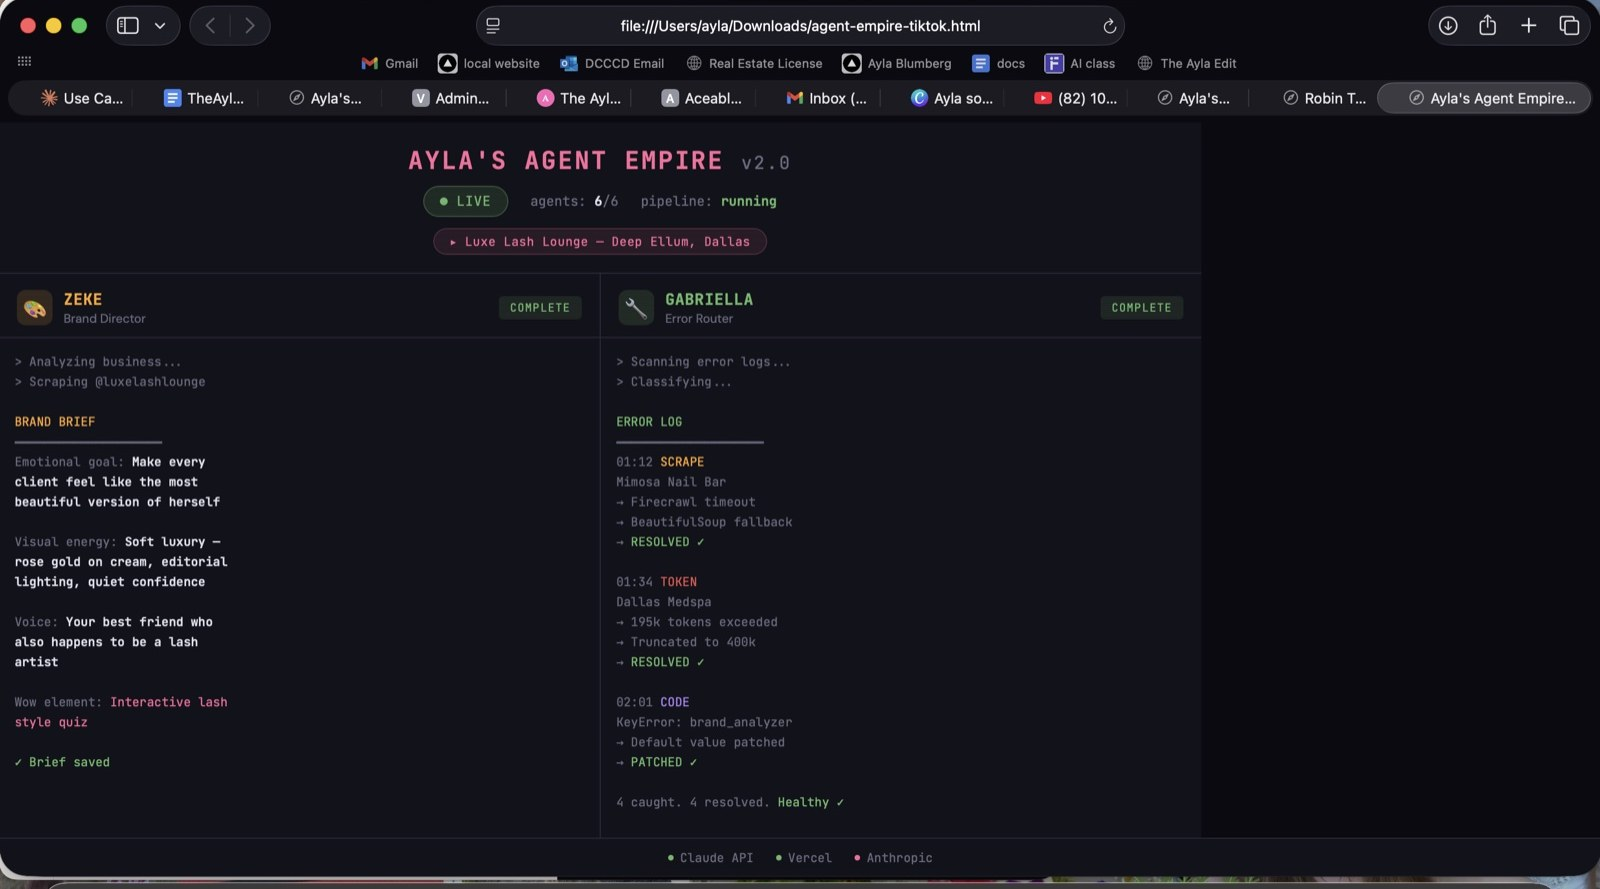
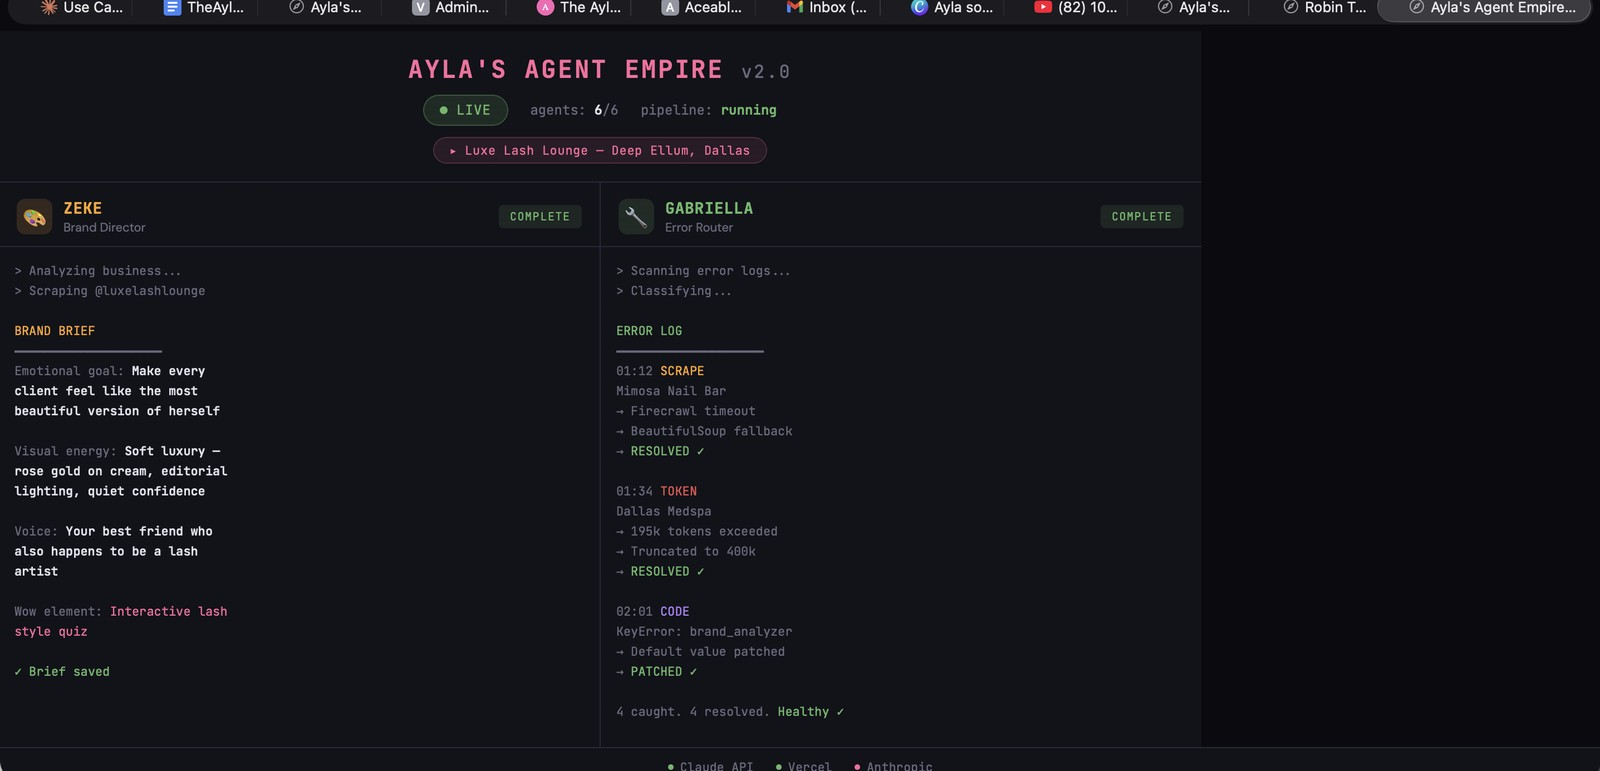
fix: tighter welcome-hero crop (no browser chrome), simpler caption, kill redundant 'that's exactly who this is for' line, drop 'sometimes I demo' from how-this-works

diff --git a/components/CourseDashboard.tsx b/components/CourseDashboard.tsx
@@ -20,12 +20,11 @@ const lessons: Lesson[] = [
     <div class="l-body">
       <p>I'm 19. I've never taken a coding class or even watched a YouTube explanation of how to code. I'm building two AI businesses and am starting to get hired to make AI agent teams for people and businesses.</p>
       <div class="a-quote">"All this stuff is intimidating and can sometimes feel like it's impossible to catch up. But I learned Claude mid-March and wrote this course mid-April. It's much easier than it seems. I'm no genius. I'm just ambitious and patient."</div>
-      <p>This course is for the person who keeps seeing AI stuff online and thinking: <em>this looks insane, I don't know where to start, and every explanation feels like it's made for someone who already knows what they're doing.</em></p>
-      <p>That's exactly who this is for. Let's go.</p>
+      <p>This course is for the person who keeps seeing AI stuff online and thinking: <em>this looks insane, I don't know where to start, and every explanation feels like it's made for someone who already knows what they're doing.</em> Let&rsquo;s go.</p>
       <div class="callout"><div class="callout-tag">What you'll be able to do after this</div>Build websites, automate repetitive tasks, generate content, create business plans, and make things that run on their own while you sleep. All just by talking. No code required.</div>
       <figure class="lesson-photo">
-        <img src="/lesson-welcome-hero.jpg" alt="A real dashboard from one of my own client projects (a lash studio in Dallas), where my agents handle the brand brief and error routing in the background" />
-        <figcaption>This is from a totally separate project of mine &mdash; a dashboard I built for a Dallas lash studio, where my agents handle the brand brief and error routing while I&rsquo;m doing other things. Showing you because <strong>this kind of thing is what you&rsquo;ll be able to build by the end of the course</strong>. (The course itself doesn&rsquo;t use agents &mdash; it&rsquo;s just lessons.)</figcaption>
+        <img src="/lesson-welcome-hero.jpg" alt="A dashboard I built where my agents are working on a project in real time" />
+        <figcaption>My agents working on a project. <strong>An example of what you&rsquo;ll be able to build by the end of the course.</strong></figcaption>
       </figure>
 
       <hr class="l-divider" />
@@ -38,7 +37,7 @@ const lessons: Lesson[] = [
           <div class="how-step-n">01</div>
           <div class="how-step-body">
             <h3>Every lesson has a video.</h3>
-            <p>Press play at the top. It's me, talking at you the way I'd talk at a friend. Sometimes I demo something on screen. Watch it on 1.5x if I'm yapping too slow — I won't be offended.</p>
+            <p>Press play at the top. It's me, talking at you the way I'd talk at a friend. Watch it on 1.5x if I'm yapping too slow — I won't be offended.</p>
           </div>
         </div>
         <div class="how-step">
